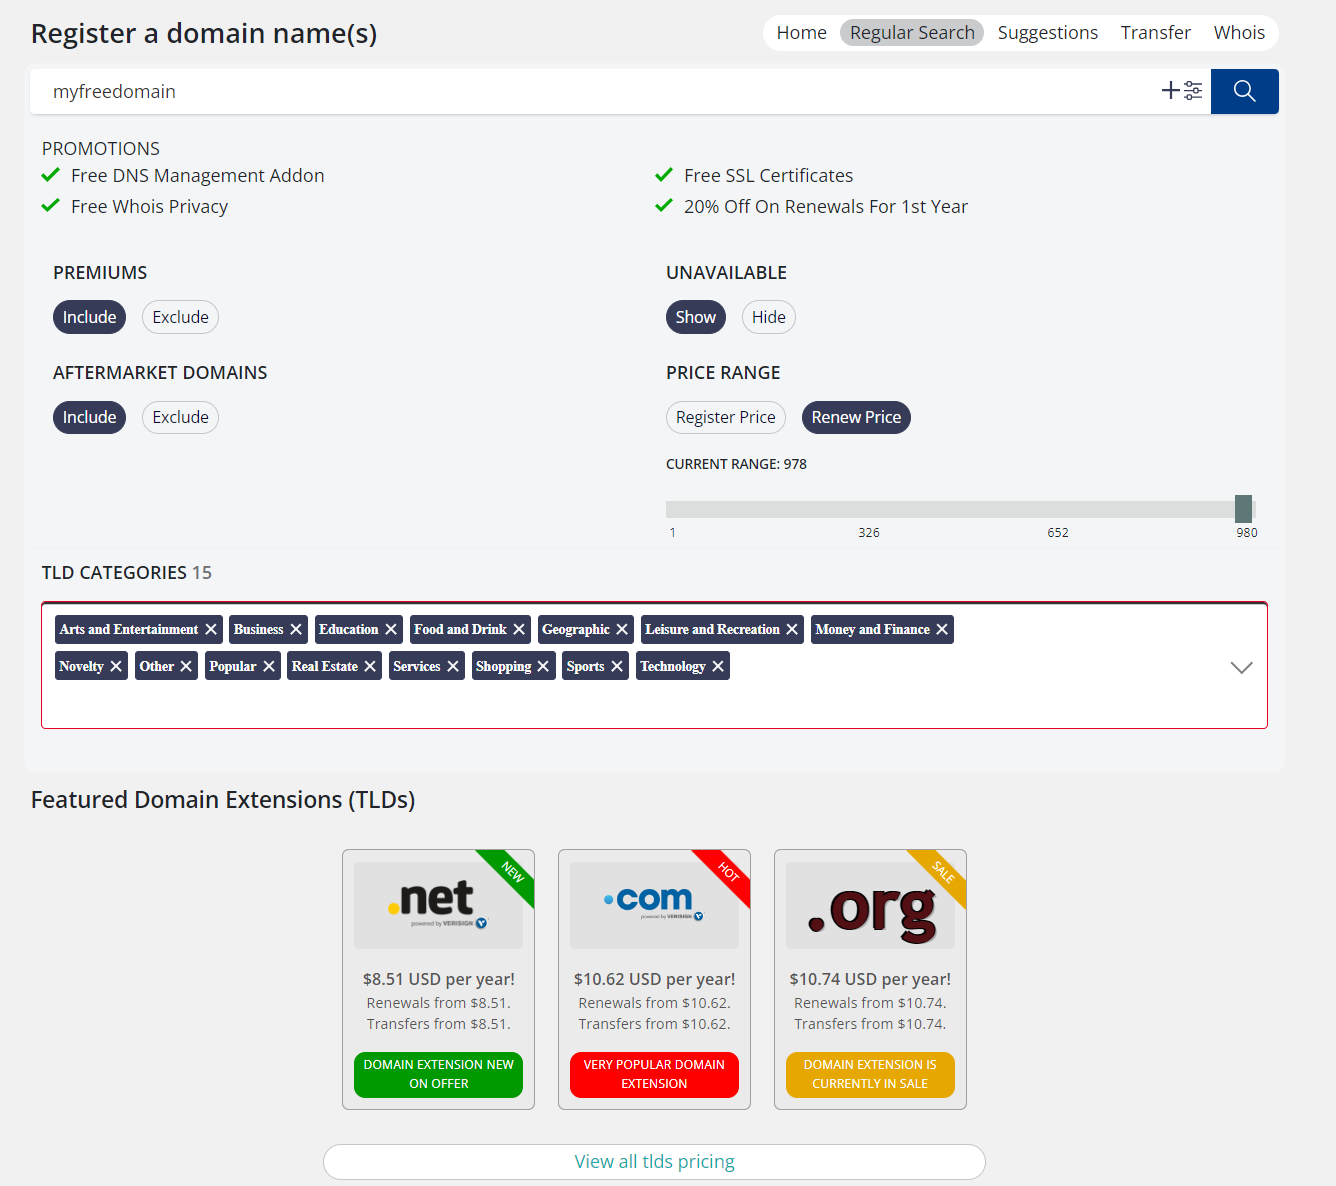
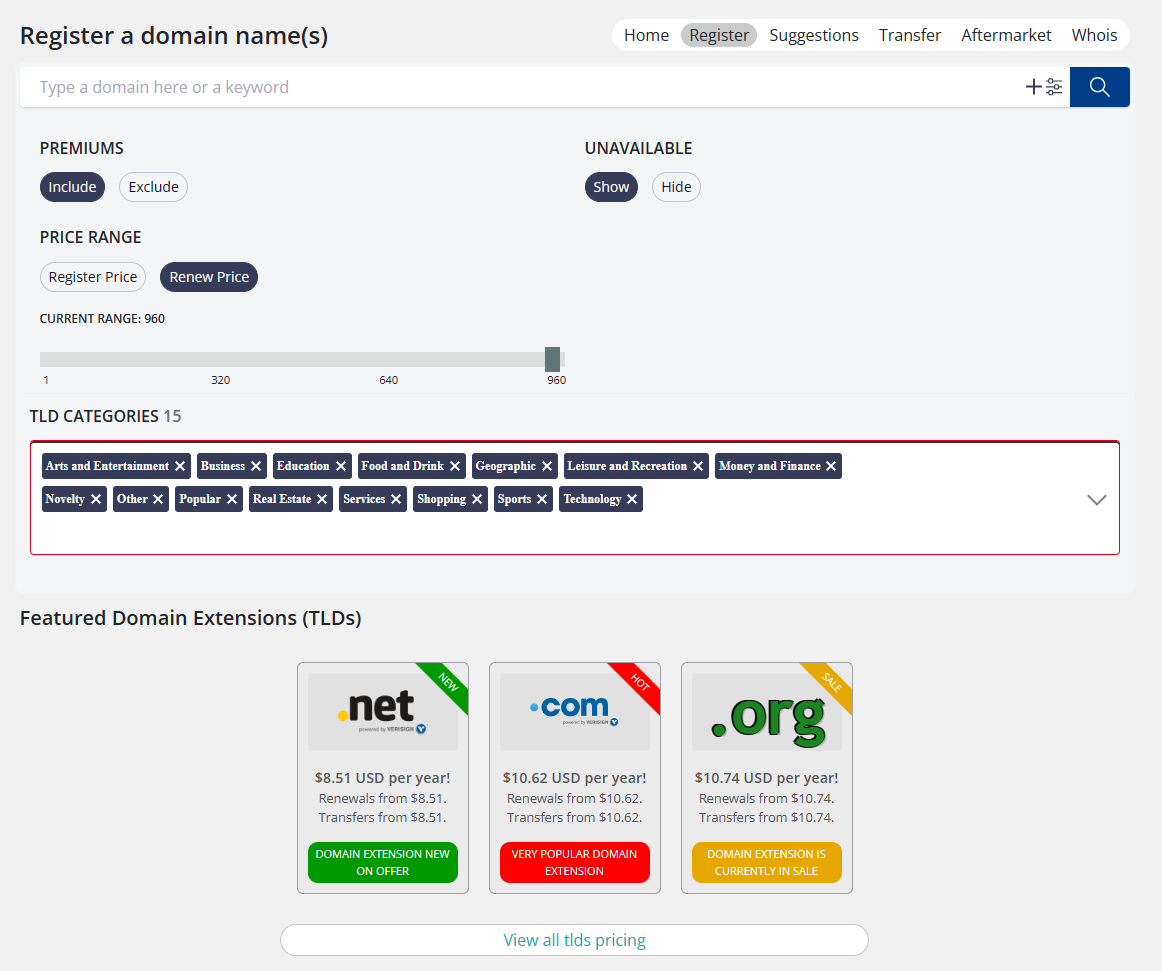
docs(aftermarket): Added documentation for aftermarket and premium domains

diff --git a/_includes/whmcs-domain-search.md b/_includes/whmcs-domain-search.md
@@ -10,7 +10,9 @@ Welcome to the documentation for the new CNIC Domain Search add-on! This powerfu
 
 - **Easy Domain Availability Check:** With just one click, your customers can quickly check the availability of domains.
 
-- **Support for Premium Domains:** The add-on enables support for Premium Domains, including Aftermarket and Registry Premium Domains.
+- **Support for Premium Domains:** The add-on enables support for Premium Domains.
+
+- **Support for Aftermarket Domains:** Explore the World of Aftermarket Domains.
 
 - **Domain Name Suggestion Engine:** A built-in suggestion engine provides helpful suggestions during searches, enhancing the user experience.
 
@@ -82,6 +84,35 @@ Use the `Registrar TLD Sync` Feature to import our TLDs and Prices which is avai
 
 ![domainpricing]({{ 'assets/images/whmcs/ispapi-domainchecker/regular_domain_pricing.png' | relative_url }})
 
+{% if page.grand_parent == "CentralNic Reseller" %}
+### Premium Domains
+
+**Enabling Premium Domain Handling**
+
+To support Premium Domains on WHMCS, ensure that premium domain handling is enabled in your CentralNic Reseller's Account. Follow these steps:
+
+- Navigate to `Settings > System > Premium Domains > Premium handling`.
+
+![premiumdomains]({{ 'assets/images/whmcs/cnic-domain-search/domain-search-premium-cnr.png' | relative_url }})
+{% endif %}
+
+### Aftermarket Domains
+
+**Enabling Aftermarket Domains Feature**
+
+- Navigate to `CNIC Domain Search > Features`.
+- Toggle the Aftermarket option to `ON` to enable support for Aftermarket domains in your Domain Search.
+
+![aftermarket-domains]({{ 'assets/images/whmcs/cnic-domain-search/domain-search-aftermarket-feature.png' | relative_url }})
+
+**Using Aftermarket Domains with WHMCS**
+
+To integrate Aftermarket domains with WHMCS, follow these steps:
+
+- Ensure premium domain support is enabled in WHMCS.
+
+![premium-domains-whmcs]({{ 'assets/images/whmcs/cnic-domain-search/domain-search-premium-domains-toggle.png' | relative_url }})
+
 ### Manage your Settings
 
 To configure your default settings, which will serve as the initial settings for your clients, follow these steps:
@@ -111,6 +142,7 @@ The module offers domain search results based on four different modes:
 2. **Suggestions**: Generate domain name suggestions using our API.
 3. **Transfer**: Take advantage of our unique bulk domain transfer feature.
 4. **Whois**: Perform domain WHOIS lookups using the CNIC Domain Search addon.
+5. **Aftermarket**: Elevate Your Online Brand with Aftermarket Gems!
 
 By managing these settings, you can tailor the functionality and features of the CNIC Domain Search addon to suit your specific requirements.
 
